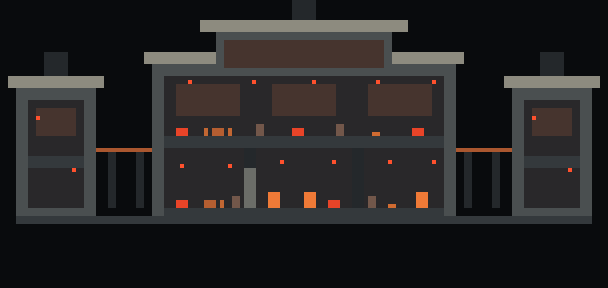
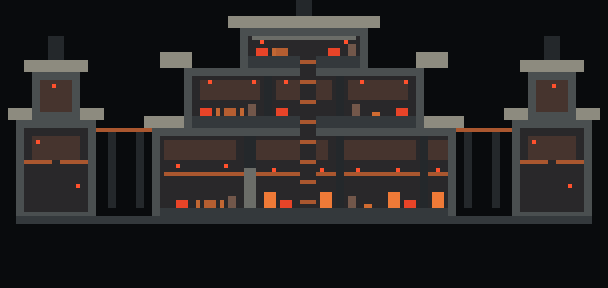
Refine Kessler campus architecture

Changed region(s): [[0.0, 0.0, 1.0, 0.75], [0.3125, 0.6875, 0.3438, 0.7188]]

diff --git a/Content/Diagnostics/KesslerCampusGallery.cs b/Content/Diagnostics/KesslerCampusGallery.cs
@@ -32,12 +32,31 @@ namespace apogean.Content.Diagnostics
 			PlaceWastesGround(left - 12, left + Width + 12, surfaceY);
 			AuthoredStructurePlacement placement = CorporateCampusBlueprints.Place(mod, ApogeanFaction.Kessler, atlasBounds);
 			Frame(new Rectangle(left - 12, top, Width + 24, Height));
+			ValidatePlatformShaft(placement.Bounds.Location);
+			Lighting.Clear();
+			Main.dayTime = true;
+			Main.time = 27000d;
 
 			player.Teleport(new Vector2((placement.Entrance.Center.X + 0.5f) * 16f,
 				(placement.Entrance.Bottom - 2) * 16f), TeleportationStyleID.RodOfDiscord);
 			if (Main.netMode == NetmodeID.Server)
 				NetMessage.SendTileSquare(-1, atlasBounds.Center.X, atlasBounds.Center.Y, Width + 28);
 			return placement.Bounds;
+		}
+
+		private static void ValidatePlatformShaft(Point origin)
+		{
+			int platform = ModContent.TileType<KesslerPlatform>();
+			foreach (int localY in new[] { 15, 20, 25, 30, 35, 40, 45, 50 })
+			{
+				for (int localX = 75; localX < 79; localX++)
+				{
+					Tile tile = Framing.GetTileSafely(origin.X + localX, origin.Y + localY);
+					if (!tile.HasTile || tile.TileType != platform)
+						throw new InvalidOperationException(
+							$"Kessler Campus platform shaft failed at local {localX},{localY}.");
+				}
+			}
 		}
 
 		private static void Clear(Rectangle bounds)

diff --git a/DESIGN_BIBLE.md b/DESIGN_BIBLE.md
@@ -69,7 +69,7 @@ The Wastes must remain a complete Terraria building biome rather than a set dres
 - Each Campus is one authored whole-building blueprint placed without stretching inside its saved atlas reservation. Its silhouette, decks, walls, public frontage, progression entrance, reusable arena, and furniture layout are stable across seeds; only its world location and bounded terrain skirt vary.
 - Corporate interiors use complete native-scale tile families rather than generic block recolors: structure panel, technical/window wall, platform, chair, table, functional workbench, light, console, storage, and faction-signature animated machinery. Kessler reads as fortified armory infrastructure, Helix as clinical containment, and Sentrix as surveillance/data architecture.
 - Kessler's validated native construction language is gunmetal masonry and armour plate with burnt-red structural trim, restrained signal-orange controls, warm amber service lighting, power-armour racks, and a rigid-pole war standard carrying a shield with three chevrons. Rooms stay near Terraria housing scale; broad empty box interiors are invalid.
-- Kessler's day-one Campus uses a compact 152x72 authored footprint inside a larger protected event reservation. Paired checkpoint towers and patrol walks mark the perimeter; their ground passages and west-side quartermaster frontage remain physically open, while a distinct internal bulkhead controls access to the armory. The two-deck headquarters, command crown, animated standards, and terrain-keyed footing must survive the same production-template render used by world generation.
+- Kessler's day-one Campus uses a compact 152x72 authored footprint inside a larger protected event reservation. Paired two-stage checkpoint towers and patrol walks mark the perimeter; their ground passages and west-side quartermaster frontage remain physically open, while a distinct internal bulkhead controls access to the armory. The stepped logistics deck, operations deck, narrow command crown, backed platform shaft, animated standards, and terrain-keyed footing must survive the same production-template render used by world generation.
 - Kessler placement keys the reservation to the blueprint's authored surface line at local Y=54, scores terrain across the centered 152-tile building footprint rather than the wider event reservation, and rejects sites with more than 28 tiles of relief. The Wastes conversion pass runs after the atlas is saved but before compounds and ruins, so a new foundation can never masquerade as the original forest surface or strand living terrain beneath the Campus.
 - Every auto-framed solid and wall atlas uses Terraria's real edge/corner/isolated framing topology. A filled grid of repeated 16-pixel squares is invalid even when the canvas dimensions are correct. Apogean bundles these textures directly; a separate resource pack is neither required nor accepted as a substitute.
 - Native-format atlases are validated in a disposable in-game gallery, not from their source PNG alone. When a Terraria atlas uses opaque frame cells, Apogean preserves its alpha and within-frame luminance continuity before applying an original palette; independently outlining or procedurally filling every cell creates visible bamboo-like seams and is forbidden. Ruined trees stay inside Terraria's segmented trunk, branch, and top contracts so height variation and chopping remain native. A fixed root flare may attach only to the bottom trunk tile; full-tree overlays, height-scaled composites, and silhouettes that survive after their supporting segment is removed are forbidden. Gameplay and capture-camera output must use the same draw path.

diff --git a/ACT1_ROADMAP.md b/ACT1_ROADMAP.md
@@ -15,7 +15,7 @@
 - First approved Wastes underground-depth set: four native-sized cave textures with an opaque, wrap-safe eroded-strata material, distinct shallow/deep palettes, and an in-engine lighting proof. Unique ruined mine landmarks are reserved for sparse world furniture so they do not repeat every 128 pixels.
 - First approved Ruined Deep Underworld panorama: an opaque refinery horizon plus hard-alpha broken-span and slag/rail overlays, composited in Terraria's final custom-sky depth band so it replaces all five vanilla Hell layers while remaining behind tiles, lava, entities, and UI. The first live art pass exposed residual generated checker pixels as amber visual noise; the corrected extraction passed the second live render and all static gates.
 - First approved Kessler construction slice: native Gray Brick topology recolored into five distinct gunmetal/burnt-red structural materials, two wall fields, a complete room furniture family, warm service lighting, animated power-armour racks, and an animated shield-and-chevron war standard. A native-placement fixture exposed and fixed the shared tileNoAttach defect that had made every corporate room reject furniture.
-- First approved Kessler Campus production slice: a compact 152x72 authored compound now occupies only part of its larger event reservation. Connected checkpoint towers, open public passages, a west-side quartermaster frontage, a separate sealed armory bulkhead, a two-deck headquarters, a command crown, native furniture, animated armour racks and standards, and a terrain-keyed foundation replace the rejected giant shell. The shared template loader now resolves and frames structural anchors before placing every registered multi-tile object natively.
+- First approved Kessler Campus production slice: a compact 152x72 authored compound now occupies only part of its larger event reservation. Two-stage checkpoint towers, open public passages, a west-side quartermaster frontage, a separate sealed armory bulkhead, stepped logistics/operations/command volumes, a dark-backed platform shaft, native furniture, animated armour racks and standards, and a terrain-keyed foundation replace the rejected giant shell. The shared template loader now resolves and frames structural anchors before placing every registered multi-tile object natively.
 - Fresh-world Kessler placement gate: the authored 54-tile surface datum, actual 152-tile footprint, 28-tile terrain-relief ceiling, and Wastes-before-compounds pass order replaced the rejected floating placement. Seed `ApogeeCampusQA-2026-09-03` / atlas hash `9DBCB5C1` passes save/load inspection with 152/152 supported columns, 3,588 underlying Wastes cells, complete native furniture counts, an unobstructed public approach, and a sealed/open/re-armed bulkhead cycle.
 - First playable Kessler arrival loop: Wall of Flesh signals the impact, the next observed dawn starts a ten-target live-fire assessment, Survey Drones escalate into Reclaimers, and success unseals the public compound, grants five Kessler Scrip to each active player, and stations Quartermaster Mara Venn. Her requisition shop and custom branching briefing both pass live client checks. Attacks use narrow dashed acquisition lines, no body-contact damage, and a QA-world-only deterministic harness; bespoke combatant and Quartermaster sprites remain an explicit art gate.
 

diff --git a/VALIDATION_NATIVE_WORLD_V3.md b/VALIDATION_NATIVE_WORLD_V3.md
@@ -1,6 +1,6 @@
 # Native world and tileset validation — V3
 
-Validated 2026-09-01 through 2026-09-03 against tModLoader `v2026.7.3.0` and Terraria `1.4.4.9`.
+Validated 2026-09-01 through 2026-09-04 against tModLoader `v2026.7.3.0` and Terraria `1.4.4.9`.
 
 ## Package gates
 
@@ -48,6 +48,8 @@ The surface-background fixture is biome-selectable and currently validates Fores
 The vegetation chop assertion accepts Terraria's legitimate short native-tree variants when at least four contiguous trunk cells are present. That is enough to leave supported trunk below and canopy above the tested `rootY - 2` cut, avoiding a random false failure while preserving the actual split-tree contract.
 
 The accepted 2026-09-03 vegetation revision deliberately uses exported vanilla Forest tree masks for trunks, branches, and crowns. Apogean changes the palette and adds a bounded root flare but does not replace Terraria's segmented tree renderer. This keeps ordinary height variation and chopping intact. Rigid Wastes ground-cover props use a whole-object draw contract so player contact cannot shear a twig or shrub down its center, while a separate root-skirt atlas closes the Wastes Grass-to-Soil seam. Approved daylight evidence is retained at `Art/Validation/2026-09-03-WastesVegetationNativeTreeBaseline.png`. `Art/Validation/WastesVegetationLab-wide-trunk-rejected.jpg` is retained as negative evidence for the monolithic braided-trunk approach and is not an approved target.
+
+The accepted 2026-09-04 Kessler revision replaces the broad two-deck headquarters box with three stepped, Terraria-scale volumes and converts the checkpoint towers into traversable two-stage rooms. A four-tile platform shaft connects all levels against an authored bulkhead wall, preventing the blue-sky holes exposed by the first live pass, while a lower mezzanine breaks up the armory floor without creating a solid traversal plug. The deterministic campus fixture verifies every shaft platform before capture. Approved full-compound evidence is retained at `Art/Validation/2026-09-04-KesslerCampusSteppedArchitecture.png`.
 
 ## Maw source-conversion proof
 
